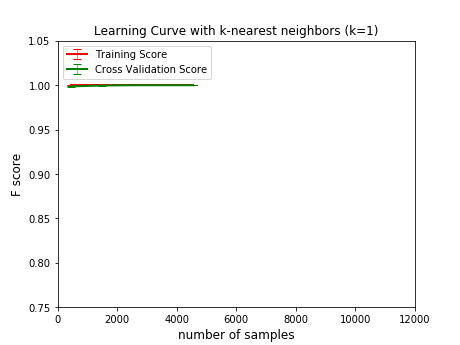
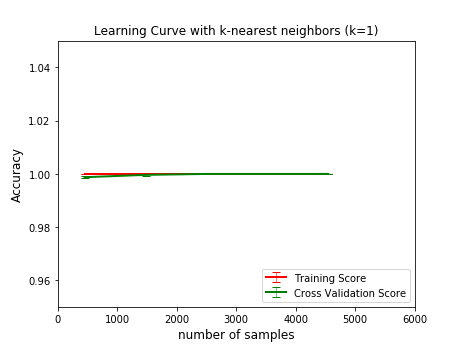
parameter changed

diff --git a/analyze_mushroom.py b/analyze_mushroom.py
@@ -91,7 +91,7 @@ def tune_kNN(X, y):
 
     plot_curve(train_sizes, train_scores_mean_lc, train_scores_std_lc, cv_scores_mean_lc, cv_scores_std_lc,
                title='Learning Curve with k-nearest neighbors (k=%d)' % (optimal_k), x_label='number of samples',
-               x_lim=(0, 12000), y_lim=(0.95, 1.05))
+               x_lim=(0, 6000), y_lim=(0.95, 1.05))
 
     return {'n_neighbors': optimal_k}
 
@@ -123,11 +123,11 @@ def tune_SVM_1(X, y):
 
     plot_curve(np.log10(c_range), train_scores_mean, train_scores_std, cv_scores_mean, cv_scores_std,
                title='Validation Curve with SVM (linear)', x_label='value of log10(C)',
-               x_lim=(-4, 4), y_lim=(0.75, 1.05))
+               x_lim=(-4, 4), y_lim=(0.95, 1.05))
 
     # optimal_c = 100.0
 
-    train_sizes = np.linspace(.1, 1.0, 10)
+    train_sizes = np.linspace(.1, 1.0, 5)
 
     train_sizes, train_scores_lc, cv_scores_lc = learning_curve(SVC(kernel='linear'), X, y, cv=folds,
                                                                 n_jobs=4, scoring='accuracy', train_sizes=train_sizes)
@@ -145,7 +145,7 @@ def tune_SVM_1(X, y):
 
     plot_curve(train_sizes, train_scores_mean_lc, train_scores_std_lc, cv_scores_mean_lc, cv_scores_std_lc,
                title='Learning Curve with SVM (linear, c=%5.2f)' % (optimal_c), x_label='number of samples',
-               x_lim=(0, 12000), y_lim=(0.75, 1.05))
+               x_lim=(0, 6000), y_lim=(0.95, 1.05))
 
     return {'C': optimal_c}
 
@@ -158,7 +158,7 @@ def tune_SVM_2(X, y):
     # c_range = [0.001,0.01, 0.1, 1, 10, 100, 1000]
     c_range = [1e-1, 1e0, 1e1, 1e2, 1e3, 1e4]
     gamma_range = np.logspace(-5, 1, 7)
-    print gamma_range
+    #print gamma_range
 
     param_grid = dict(gamma=gamma_range, C=c_range)
     grid = GridSearchCV(SVC(), param_grid=param_grid, cv=cv_s, scoring='accuracy', n_jobs=4)
@@ -192,7 +192,7 @@ def tune_SVM_2(X, y):
 
     plot_curve(train_sizes, train_scores_mean_lc, train_scores_std_lc, cv_scores_mean_lc, cv_scores_std_lc,
                title='Learning Curve with SVM (RBF, gamma= %.2f, c=%.2f)' % (optimal_gamma, optimal_c),
-               x_label='number of samples', x_lim=(0, 12000), y_lim=(0.75, 1.05))
+               x_label='number of samples', x_lim=(0, 6000), y_lim=(0.95, 1.05))
 
     return {'gamma': optimal_gamma, 'C': optimal_c}
 
@@ -268,7 +268,7 @@ def tune_decisionTree(X, y):
 
     plot_curve(train_sizes, train_scores_mean_lc, train_scores_std_lc, cv_scores_mean_lc, cv_scores_std_lc,
                title='Learning Curve with decision tree (max depth = %d)' % (optimal_max_depth),
-               x_label='number of samples', x_lim=(0, 12000), y_lim=(0.95, 1.05))
+               x_label='number of samples', x_lim=(0, 6000), y_lim=(0.95, 1.05))
 
     return {'max_depth': optimal_max_depth}
 
@@ -317,7 +317,7 @@ def tune_boost(X, y):
 
     plot_curve(train_sizes, train_scores_mean_lc, train_scores_std_lc, cv_scores_mean_lc, cv_scores_std_lc,
                title='Learning Curve with Adaboosting(%d of estimators, %.3f learning rate)' % (
-                   optimal_n_estimators, optimal_lr), x_label='number of samples', x_lim=(0, 12000), y_lim=(0.75, 1.05))
+                   optimal_n_estimators, optimal_lr), x_label='number of samples', x_lim=(0, 6000), y_lim=(0.75, 1.05))
 
     return {'n_estimators': optimal_n_estimators, 'learning_rate': optimal_lr}
 
@@ -366,7 +366,7 @@ def tune_NN(X, y):
 
     plot_curve(train_sizes, train_scores_mean_lc, train_scores_std_lc, cv_scores_mean_lc, cv_scores_std_lc,
                title='Learning Curve with Neural Network(%d hidden units and %.5f alpha)' % (
-                   optimal_hls[0], optimal_alpha), x_label='number of samples', x_lim=(0, 12000), y_lim=(0.75, 1.05))
+                   optimal_hls[0], optimal_alpha), x_label='number of samples', x_lim=(0, 6000), y_lim=(0.75, 1.05))
 
     return {'hidden_layer_sizes': optimal_hls, 'alpha': optimal_alpha}
 
@@ -430,18 +430,18 @@ if __name__ == '__main__':
 
     X_train, X_test, y_train, y_test = train_test_split(X_onehot, y_binary, test_size=0.3, random_state=0)
 
-    para_kNN = tune_kNN(X_train, y_train)
-    para_tree = tune_decisionTree(X_train, y_train)
-    # para_linear_SVM = tune_SVM_1(X_train, y_train)
-    # para_RBF_SVM = tune_SVM_2(X_train, y_train)
-    # para_boost = tune_boost(X_train ,y_train)
-    # para_NN = tune_NN(X_train, y_train)
+    #para_kNN = tune_kNN(X_train, y_train)
+    #para_tree = tune_decisionTree(X_train, y_train)
+    #para_linear_SVM = tune_SVM_1(X_train, y_train)
+    para_RBF_SVM = tune_SVM_2(X_train, y_train)
+    #para_boost = tune_boost(X_train ,y_train)
+    #para_NN = tune_NN(X_train, y_train)
 
     classifiers = [
-        KNeighborsClassifier(n_neighbors=5),
-        SVC(kernel='linear', C=100),
+        KNeighborsClassifier(n_neighbors=1),
+        DecisionTreeClassifier(max_features='auto', max_depth=16),
+        SVC(kernel='linear', C=1),
         SVC(C=100, gamma=0.01),
-        DecisionTreeClassifier(max_features='auto', max_depth=5),
         MLPClassifier(alpha=0.001, hidden_layer_sizes=(100,)),
         AdaBoostClassifier(base_estimator=DecisionTreeClassifier(max_depth=3), learning_rate=0.05, n_estimators=200)
     ]
